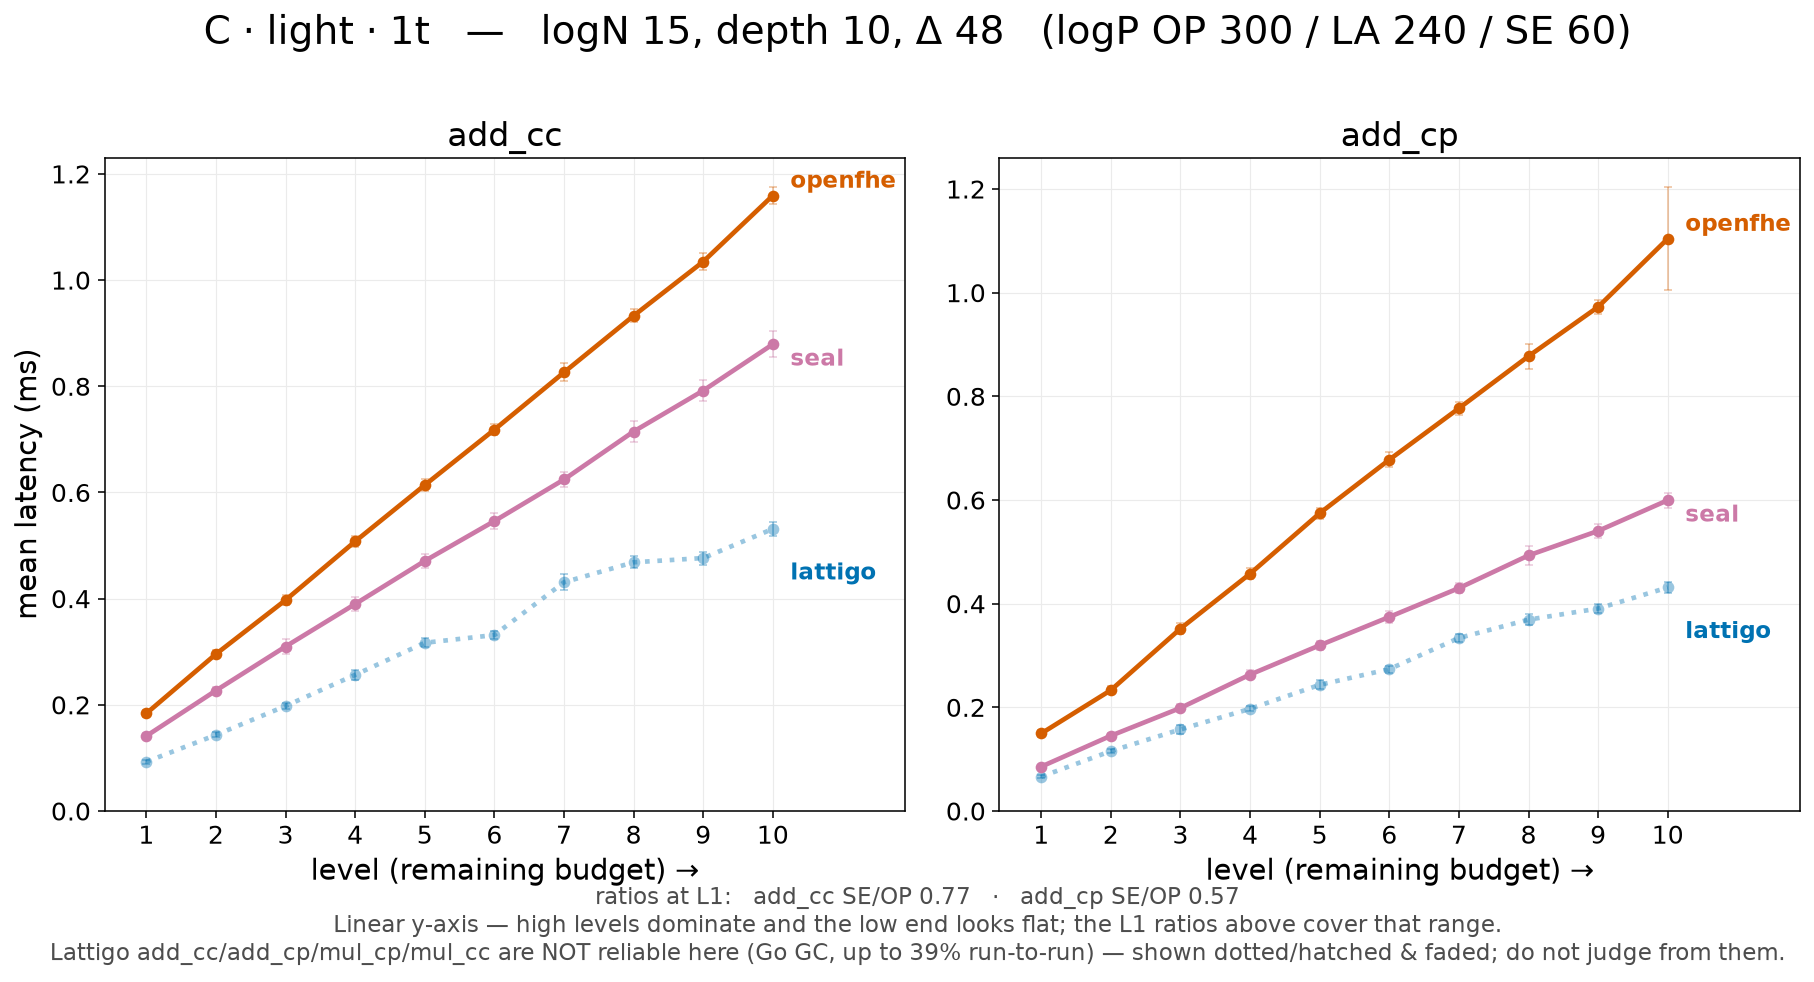
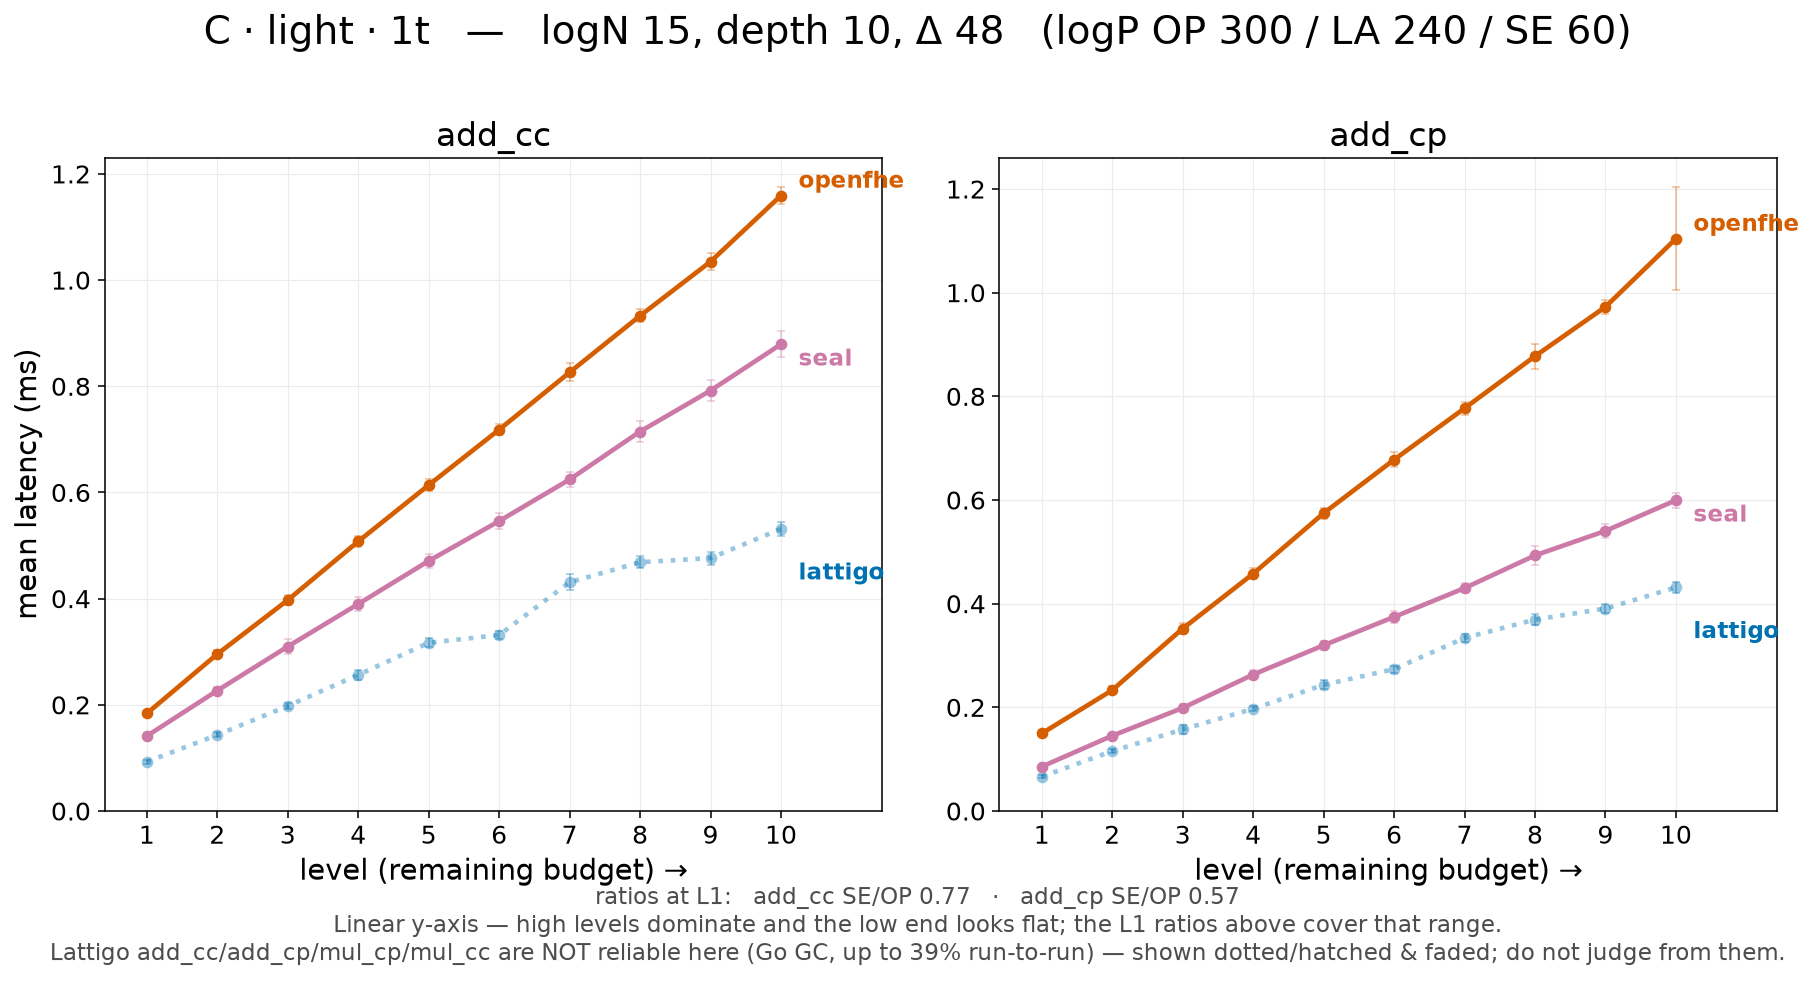
plots: levels_* 24장에서 교차점 표시 제거 + 오른쪽 여백 재조정
레벨 곡선에서 세로 점선과 "SE↔OP L=8.06" 주석을 전부 뺐다.
교차점 정보는 전용 그림(crossings_{rot1,relin,mul_cc_rlk}.png)이 담당하며 그쪽은 무변경이다.
곡선·축·L1 배율 표·직접 라벨은 그대로 뒀다. L1 배율은 같은 루프에서 계산하므로
그리기만 제거하고 수집은 유지했다.

★ 오른쪽 여백을 데이터 범위에 비례하도록 고쳤다.
  기존 고정값(+1.9)은 선 끝 직접 라벨 자리였는데, 패널 폭(픽셀)이 depth 와 무관하게
  일정하므로 라벨이 차지하는 데이터 단위는 축 범위에 비례한다.
  → depth 12 에서는 14% 로 적당했으나 depth 4(D)에서는 34%가 되어 축 절반이 비었다.
  pad = max(0.55, 0.15*(depth-0.4)) 로 전 프리셋에서 13.0~13.3% 로 균일해졌다.
  (계수를 0.095 로 잡았더니 라벨이 패널 밖으로 삐져나가 잘려 0.15 로 재조정)

렌더 후 확인: 24장 모두 점선·주석 사라짐, D 패널의 빈 공간 해소,
라벨 3종(openfhe/seal/lattigo) 전부 패널 안에 들어감, Lattigo GC 영향군 점선 유지.

plots/v3/old/ 무변경. PNG 는 git add -f 로 명시 추가.

Claude-Session: https://claude.ai/code/session_01WrRJNL4voPXJwNfNvboUnf

diff --git a/scripts/v3_plots.py b/scripts/v3_plots.py
@@ -167,7 +167,14 @@ def plot_levels(d):
                                 linewidth=2.4, markeredgewidth=0, alpha=0.4 if bad else 1.0)
                         ax.errorbar(g.level, ms, yerr=sd, fmt="none", ecolor=LIB_COLOR[lib],
                                     elinewidth=0.8, capsize=2, capthick=0.8, alpha=0.4)
-                    ax.set_xlim(0.4, depth + 1.9)
+                    # 오른쪽 여백은 선 끝 직접 라벨("openfhe" 등) 자리다.
+                    # 패널 폭(픽셀)이 depth 와 무관하게 일정하므로 라벨이 차지하는 데이터 단위는
+                    # 데이터 범위에 비례한다 — 고정값(+1.9)을 쓰면 depth 4 에서 축 절반이 빈다.
+                    # "openfhe"(bold 12pt) + 오프셋 ≈ 105px, 축 폭 ≈ 810px → 축 폭의 약 13%.
+                    #   m/(depth-0.4+m) = 0.13  →  m ≈ 0.15*(depth-0.4)
+                    # (계수를 0.095 로 잡았더니 라벨이 패널 밖으로 삐져나가 잘렸다)
+                    pad = max(0.55, 0.15 * (depth - 0.4))
+                    ax.set_xlim(0.4, depth + pad)
                     ax.set_xticks(range(1, depth + 1))
                     ax.set_ylim(bottom=0)
                     # 선 끝(고레벨=오른쪽) 직접 라벨
@@ -176,20 +183,14 @@ def plot_levels(d):
                         ax.annotate(lib, (depth, yv), textcoords="offset points",
                                     xytext=(9, 4 - 15 * k), color=LIB_COLOR[lib],
                                     fontsize=12, fontweight="bold", annotation_clip=False)
-                    # 교차점 주석 + L1 배율 수집
+                    # L1 배율 수집 (선형 y 축에서 눌리는 저레벨 구간의 보완 지표)
+                    # ⚠ 교차점은 여기 그리지 않는다 — 전용 그림 crossings_{op}.png 가 담당한다.
+                    #   레벨 곡선에 세로선을 겹치면 곡선 자체를 읽는 데 방해가 됐다.
                     for a, b in [("seal", "openfhe"), ("seal", "lattigo"), ("openfhe", "lattigo")]:
                         if a not in series or b not in series:
                             continue
                         if op in GC_OPS and "lattigo" in (a, b):
                             continue          # GC 영향군은 판정하지 않는다
-                        c, r, xs = crossings(series[a], series[b])
-                        lo, _, _ = crossings(series[a], series[b], 1 - DRIFT)
-                        hi, _, _ = crossings(series[a], series[b], 1 + DRIFT)
-                        if c and lo and hi:
-                            ax.axvline(c[0], color="0.45", linestyle="--", linewidth=1.5, zorder=0)
-                            ax.annotate(f"{a[:2].upper()}↔{b[:2].upper()}  L={c[0]:.2f}",
-                                        (c[0], ax.get_ylim()[1] * 0.98), rotation=90,
-                                        ha="right", va="top", fontsize=11, color="0.2")
                         l1.append(f"{op} {a[:2].upper()}/{b[:2].upper()} "
                                   f"{series[a][1] / series[b][1]:.2f}")
                     ax.set_title(op)
